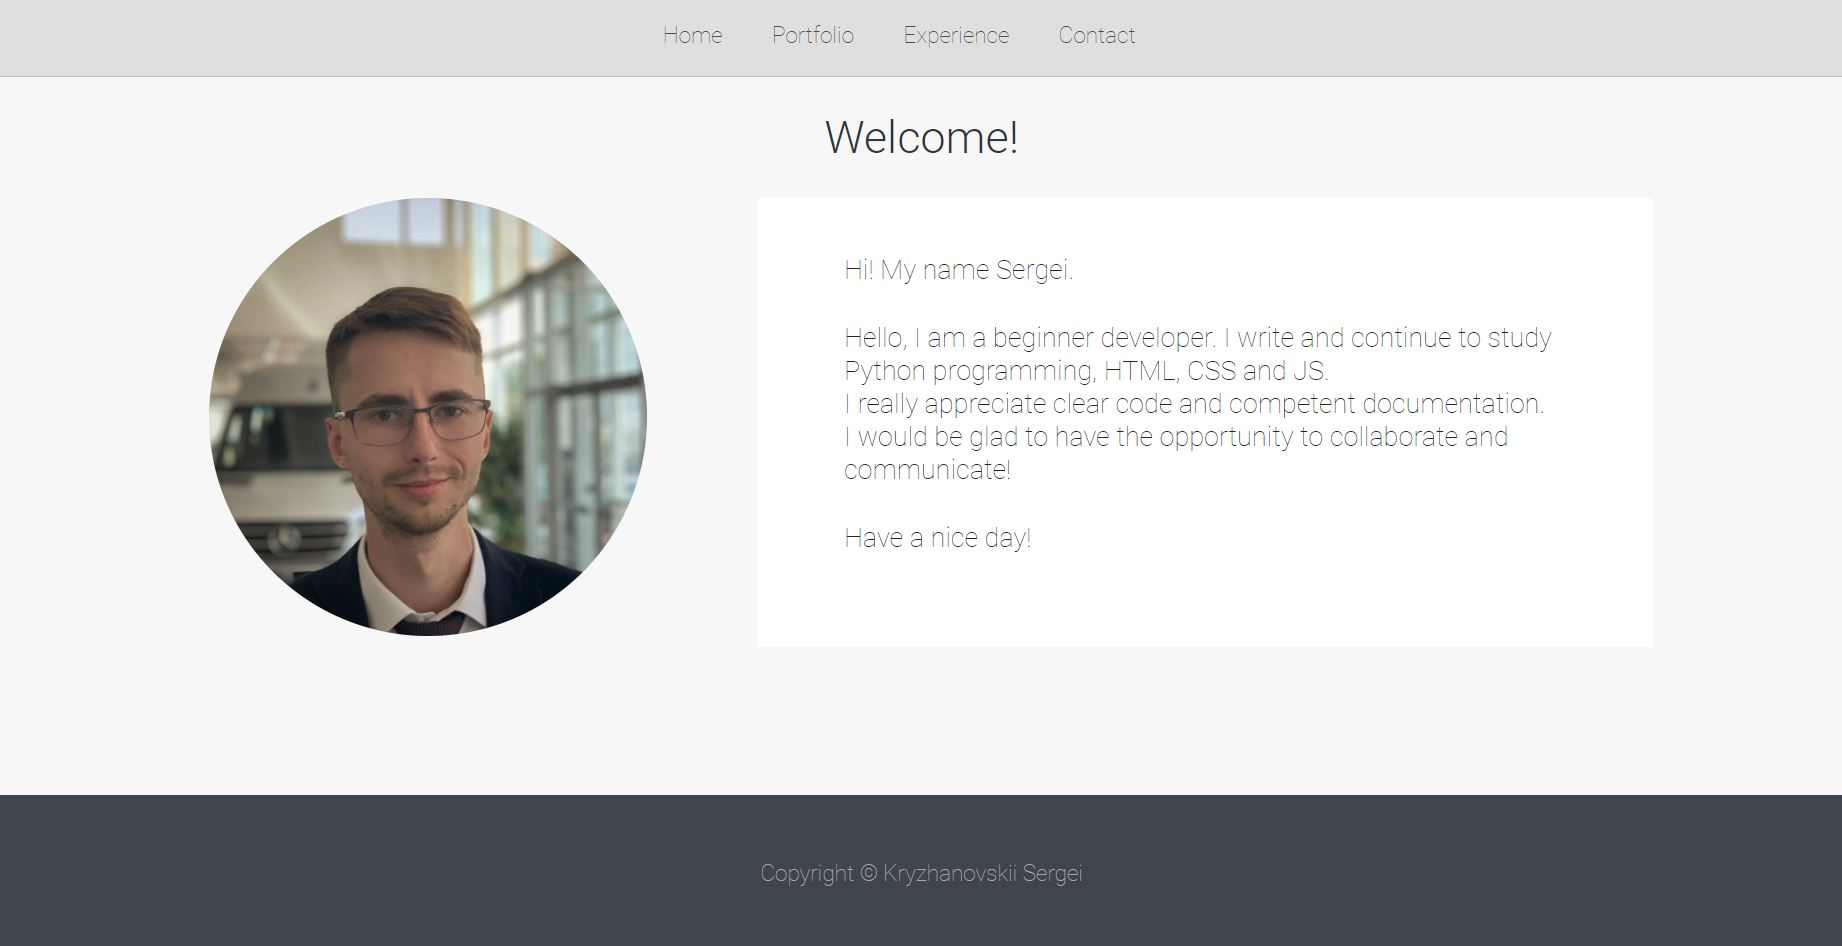
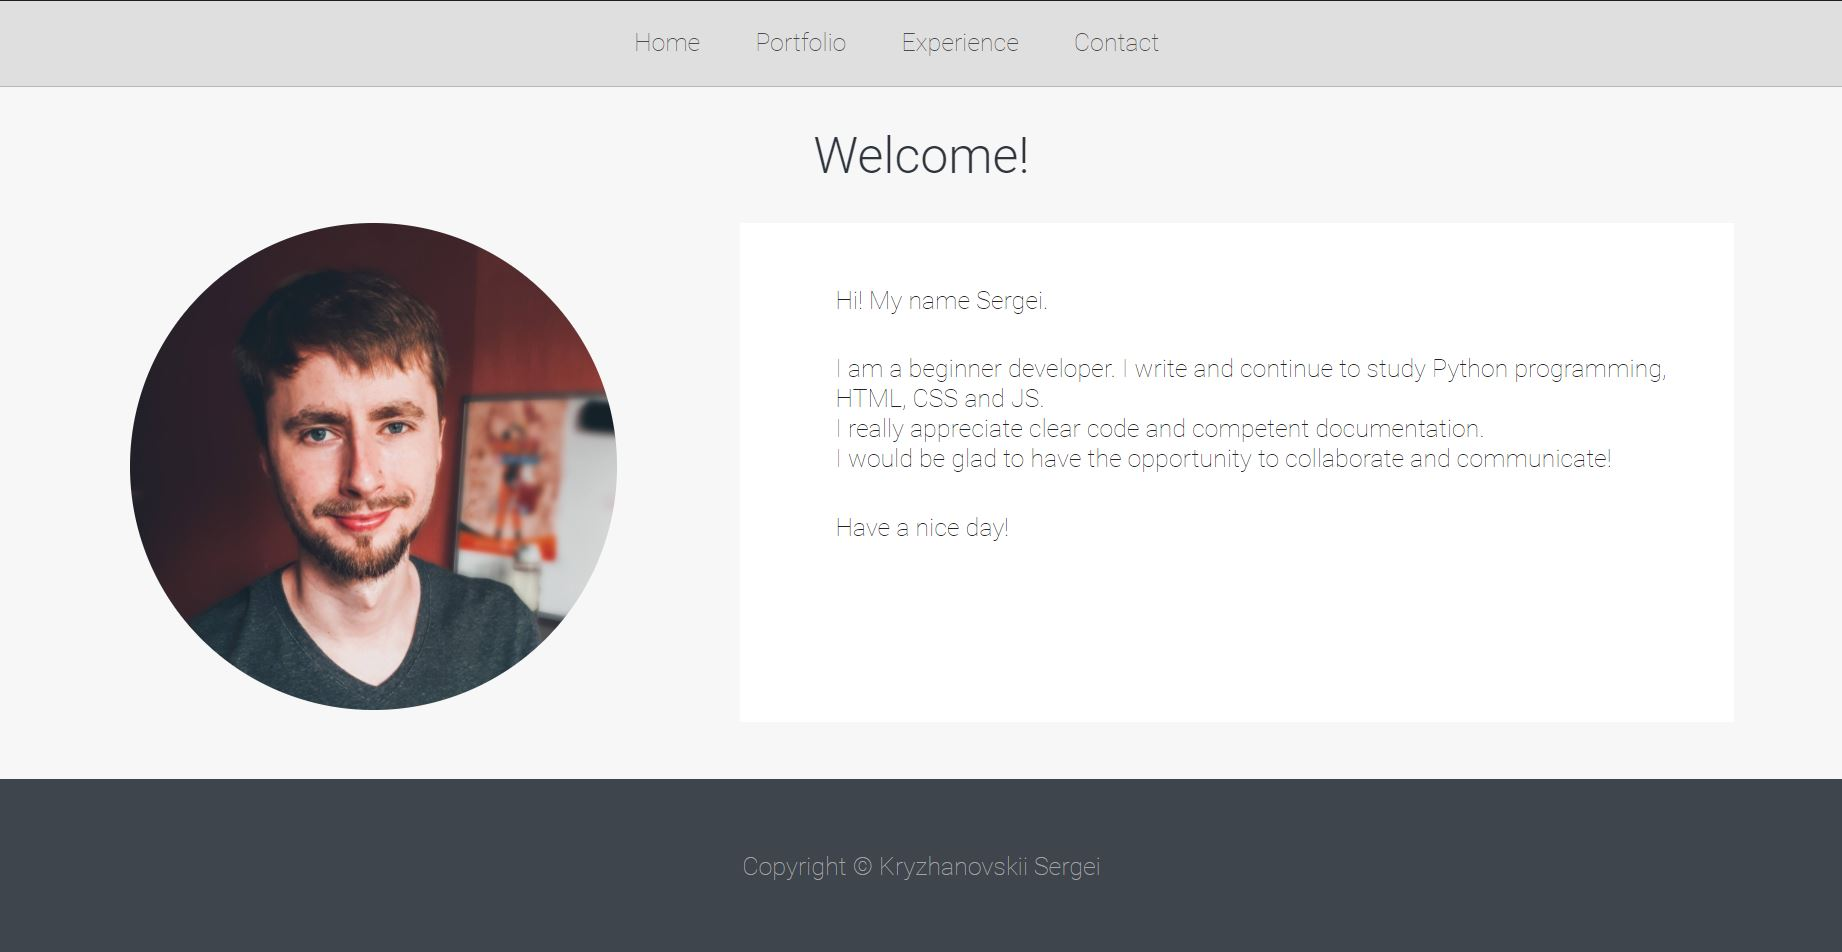
update portfolio img, links

diff --git a/CV.html b/CV.html
@@ -42,13 +42,13 @@
 			<div class="center">
 				<img src="img/cv.png">
 				<div class="box_text">
-					<p><b>hh.ru:</b> <a href="https://hh.ru/resume/f5d990e9ff07a2ac6b0039ed1f694d50594235">Sergei
+					<p><b>hh.ru:</b> <a href="https://hh.ru/resume/f5d990e9ff07a2ac6b0039ed1f694d50594235" target="_blank">Sergei
 							Kryzhanovskii</a></p>
-					<p><b>Мой круг:</b> <a href="https://career.habr.com/sergeikryzhanovskii">Sergei Kryzhanovskii</a>
+					<p><b>Мой круг:</b> <a href="https://career.habr.com/sergeikryzhanovskii" target="_blank">Sergei Kryzhanovskii</a>
 					</p>
-					<p><b>Linkedin:</b> <a href="https://www.linkedin.com/in/sergeikryzhanovskii/">Sergei
+					<p><b>Linkedin:</b> <a href="https://www.linkedin.com/in/sergeikryzhanovskii/" target="_blank">Sergei
 							Kryzhanovskii</a></p>
-					<p><b>GitHub:</b> <a href="https://github.com/SergeiKryzhanovskii">SergeiKryzhanovskii</a></p>
+					<p><b>GitHub:</b> <a href="https://github.com/SergeiKryzhanovskii" target="_blank">SergeiKryzhanovskii</a></p>
 					</p>
 				</div>
 			</div>

diff --git a/index.html b/index.html
@@ -42,7 +42,7 @@
 			<img src="img/photo.jpeg">
 			<div class="box_text">
 				<p>Hi! My name Sergei. </p>
-				<p>I am a beginner developer.
+				<p>I am a beginner developer. <br>
 					I write and continue to study Python programming, HTML, CSS and JS. <br> I really appreciate clear
 					code and competent
 					documentation.<br> I would be glad to have the opportunity to collaborate and communicate! </p>
